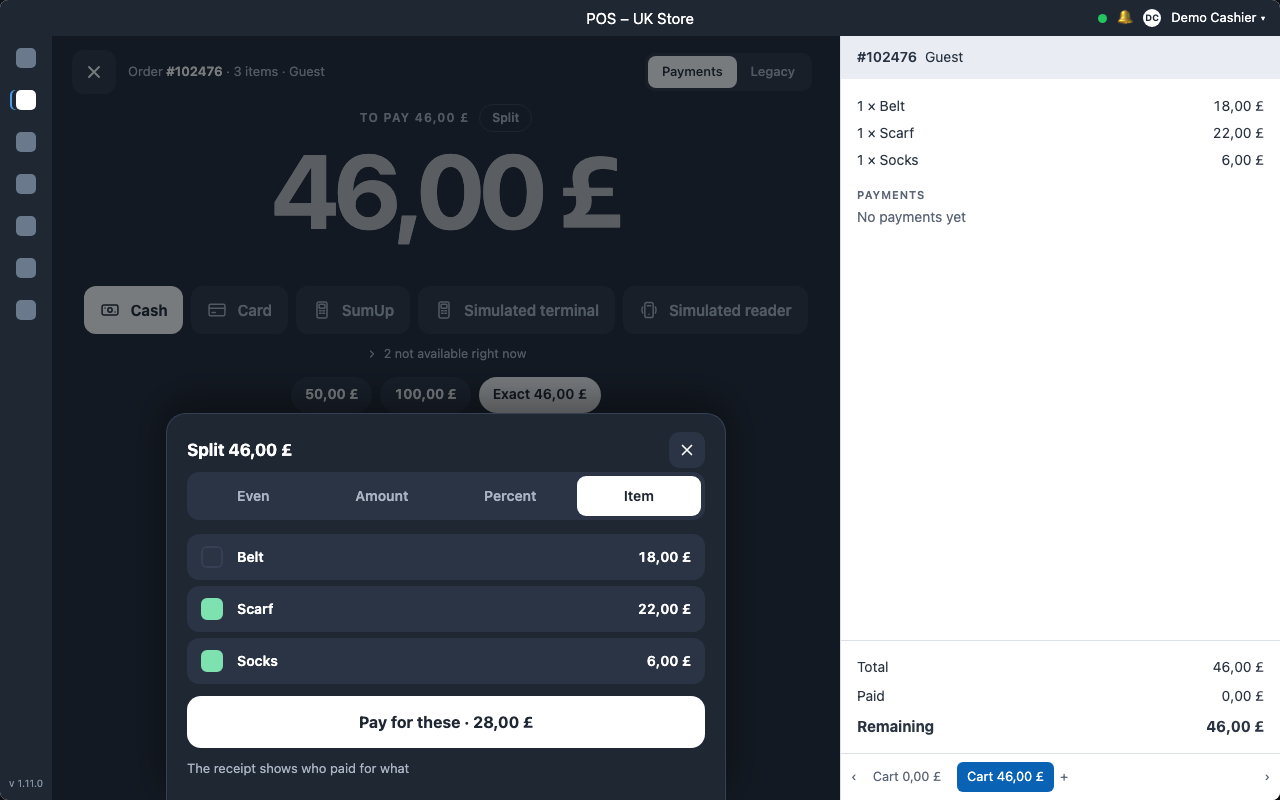
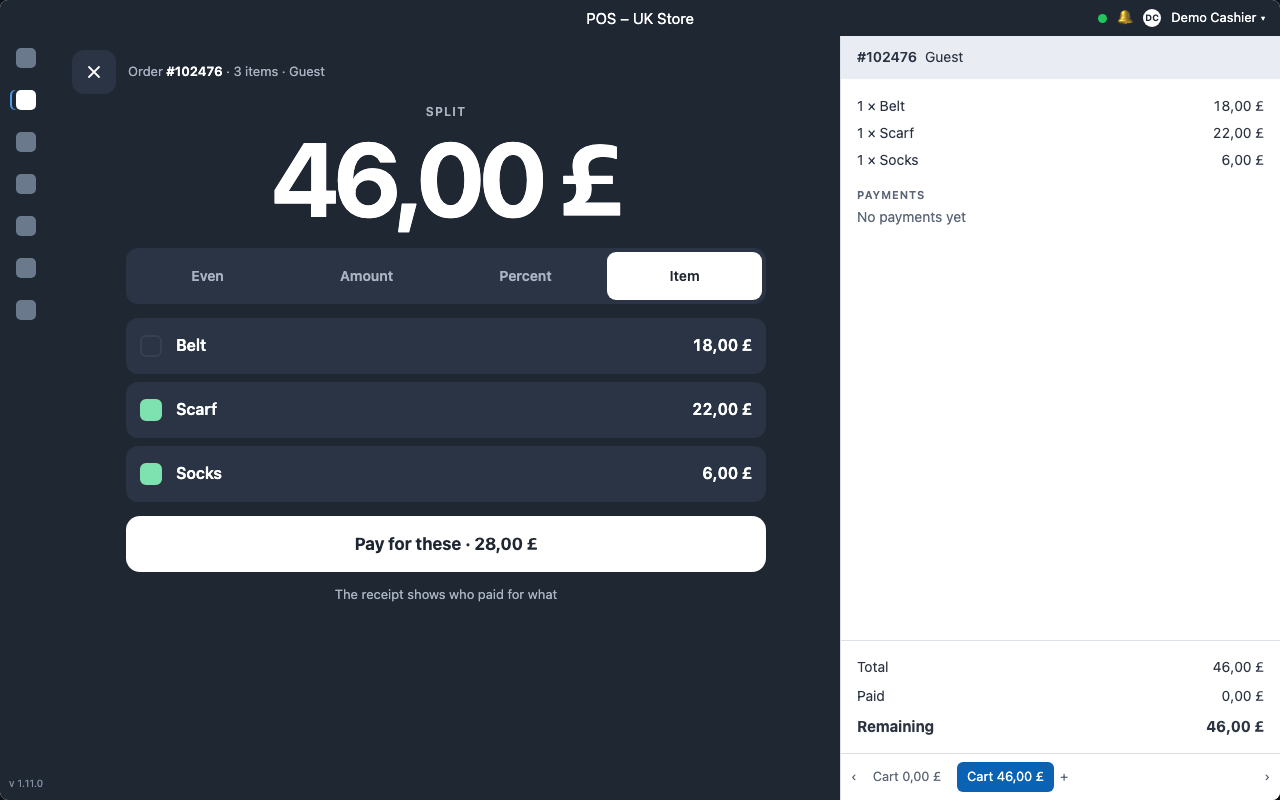
docs: tender pane round 9 — split takes over the pay pane instead of a sheet; amount stays on top, modes beneath

diff --git a/docs/prototypes/2026-09-11-tender-pane-mockups/index.html b/docs/prototypes/2026-09-11-tender-pane-mockups/index.html
@@ -91,29 +91,33 @@
   .sheet .ph .x{width:36px;height:36px;border-radius:10px;background:var(--pay-2);display:inline-flex;align-items:center;justify-content:center;cursor:pointer}
   .sheet .ph .x svg{width:18px;height:18px}
   .sheet .ps{font-size:13px;color:var(--pay-dim);margin-bottom:14px}
+  .splitv{flex:1;display:flex;flex-direction:column;min-height:0}
+  .splitv .body{flex:1;display:flex;flex-direction:column;justify-content:flex-start;max-width:640px;width:100%;margin:18px auto 0;min-height:0}
+  .splitv .foot{text-align:center;font-size:13px;color:var(--pay-dim);margin-top:14px}
+  .splitv .foot a{color:var(--pay-fg);font-weight:600;cursor:pointer;margin-left:10px}
   .stabs{display:flex;gap:4px;background:var(--pay-2);border-radius:12px;padding:4px;margin:0 0 14px}
-  .stabs span{flex:1;height:40px;border-radius:9px;display:inline-flex;align-items:center;justify-content:center;font-weight:600;color:var(--pay-dim);font-size:14px;cursor:pointer}
+  .stabs span{flex:1;height:48px;border-radius:9px;display:inline-flex;align-items:center;justify-content:center;font-weight:600;color:var(--pay-dim);font-size:14px;cursor:pointer}
   .stabs span.on{background:var(--pay-fg);color:var(--pay)}
   .frame.light .stabs{background:#e6eaf1}
-  .items{display:flex;flex-direction:column;gap:6px;max-height:232px;overflow:auto}
-  .it{display:grid;grid-template-columns:24px 1fr auto;gap:12px;align-items:center;height:46px;background:var(--pay-2);border-radius:12px;padding:0 14px;cursor:pointer;user-select:none}
+  .items{display:flex;flex-direction:column;gap:8px;max-height:none;overflow:auto}
+  .it{display:grid;grid-template-columns:24px 1fr auto;gap:12px;align-items:center;height:56px;font-size:16px;background:var(--pay-2);border-radius:12px;padding:0 14px;cursor:pointer;user-select:none}
   .it .cb{width:22px;height:22px;border-radius:6px;border:2px solid var(--pay-3)}
   .it.on .cb{background:var(--pay-accent);border-color:var(--pay-accent)}
   .it .nm{font-weight:600}.it .nm small{color:var(--pay-dim);font-weight:500;margin-left:6px}
   .it .pr{font-variant-numeric:tabular-nums;font-weight:600}
   .it.taken{opacity:.45;cursor:default}.it.taken .cb{background:var(--pay-3);border-color:var(--pay-3)}
-  .sheet .go{margin-top:12px}
-  .sheet .go .btn{width:100%;height:52px;font-size:16px}
-  .sheet .go .btn.disabled{opacity:.45}
+  .go{margin-top:14px}
+  .go .btn{width:100%;height:56px;font-size:17px}
+  .go .btn.disabled{opacity:.45}
   .opts{display:grid;grid-template-columns:repeat(3,1fr);gap:10px}
-  .opt{height:84px;border-radius:14px;background:var(--pay-2);display:flex;flex-direction:column;align-items:center;justify-content:center;gap:4px;cursor:pointer;transition:transform .08s;user-select:none}
+  .opt{height:96px;border-radius:14px;background:var(--pay-2);display:flex;flex-direction:column;align-items:center;justify-content:center;gap:4px;cursor:pointer;transition:transform .08s;user-select:none}
   .opt:active{transform:scale(.97)}
   .opt.on{background:var(--pay-fg);color:var(--pay)}
-  .opt .t{font-size:17px;font-weight:700}
+  .opt .t{font-size:19px;font-weight:700}
   .opt .s{font-size:12.5px;opacity:.8;font-variant-numeric:tabular-nums}
   .opts .opt.wide{grid-column:span 3;height:56px;flex-direction:row;gap:10px}
   .opts.five{grid-template-columns:repeat(5,1fr)}
-  .opts.five .opt{height:72px}
+  .opts.five .opt{height:88px}
   .frame.phone .opts.five{grid-template-columns:repeat(3,1fr)}
   .opts .opt.wide .s{opacity:.7}
   .frame.phone .opts{grid-template-columns:repeat(3,1fr)}
@@ -233,7 +237,7 @@
     <button data-jump="typed">Typed 20</button>
     <button data-jump="card">Card selected</button>
     <button data-jump="sumup">SumUp selected</button>
-    <button data-jump="splitsheet">Split chooser</button>
+    <button data-jump="splitsheet">Split view</button>
     <button data-jump="split">Split 2 ways</button>
     <button data-jump="split3after">3 ways · after leg 1</button>
     <button data-jump="splitpct">Percent tab</button>
@@ -368,25 +372,7 @@ function keypadView(f){
   const commitLabel = !m ? 'Choose how the customer is paying' : ((m.server||m.device) ? `Send ${fmt(applied)} to ${m.title}` : `Take ${fmt(applied)} in ${m.title}`) + tail;
   const planStrip = f.plan ? `<div class="plan">${f.plan.legs.map(l=>`<span class="pleg ${l.k}">${l.k==='done' ? I.check : ''}${l.title ? l.title + ' ' : ''}${fmt(l.v)}</span>`).join('')}<span class="edit" data-split>Change split</span></div>` : '';
   const half = f.remaining/2, third = f.remaining/3, quarter = f.remaining/4;
-  const pctOf = q => Math.round(f.remaining * q) / 100;
-  const pickedSum = Math.round(ITEMS.filter(i => S.pickItems.includes(i.id) && !S.itemsPaid[i.id]).reduce((a,i)=>a+i.price,0)*100)/100;
-  const tabBody = {
-    even: `<div class="opts five">${[2,3,4,5,6].map(n=>`<span class="opt ${S.plan && S.plan.kind==='even' && S.plan.ways===n?'on':''}" data-ways="${n}"><span class="t">${n} ways</span><span class="s">${fmt(f.remaining/n)} each</span></span>`).join('')}</div>`,
-    amount: `<div class="opts">${[5,10,20,50].filter(v=>v<f.remaining).map(v=>`<span class="opt" data-first="${v}"><span class="t">${fmt(v)}</span><span class="s">then ${fmt(f.remaining-v)}</span></span>`).join('')}<span class="opt" data-first="${f.remaining/2}"><span class="t">Half</span><span class="s">${fmt(f.remaining/2)}</span></span><span class="opt wide" data-ways="custom"><span class="t">Type the first payment</span><span class="s">on the keypad, the rest comes after</span></span></div>`,
-    percent: `<div class="opts">${[10,20,25,30,50,75].map(q=>`<span class="opt" data-first="${pctOf(q)}" data-pct="${q}"><span class="t">${q} %</span><span class="s">${fmt(pctOf(q))}</span></span>`).join('')}</div>`,
-    item: `<div class="items">${ITEMS.map(i=>`<div class="it ${S.itemsPaid[i.id]?'taken':''} ${S.pickItems.includes(i.id)&&!S.itemsPaid[i.id]?'on':''}" ${S.itemsPaid[i.id]?'':`data-item="${i.id}"`}><span class="cb"></span><span class="nm">${i.name}${S.itemsPaid[i.id]?`<small>paid · ${S.itemsPaid[i.id]}</small>`:''}</span><span class="pr">${fmt(i.price)}</span></div>`).join('')}</div>
-           <div class="go"><span class="btn white ${pickedSum>0?'':'disabled'}" ${pickedSum>0?'data-items-go':''}>${pickedSum>0 ? `Pay for these · ${fmt(pickedSum)}` : 'Tick the items this payment covers'}</span></div>`,
-  }[S.tab];
-  const tabHint = { even:'Any method for each payment · change the split at any time', amount:'The first payment is this much, the rest is one more payment', percent:'The first payment is this share, the rest is one more payment', item:'The receipt shows who paid for what' }[S.tab];
-  const sheet = S.sheet ? `
-  <div class="sheet" data-sheet-bg>
-    <div class="panel">
-      <div class="ph"><span>Split ${fmt(f.remaining)}</span><span class="x" data-sheet-close>${I.close}</span></div>
-      <div class="stabs">${['even','amount','percent','item'].map(t=>`<span class="${S.tab===t?'on':''}" data-tab="${t}">${t[0].toUpperCase()+t.slice(1)}</span>`).join('')}</div>
-      ${tabBody}
-      <div class="ps" style="margin:12px 0 0">${tabHint}${S.plan ? ` · <a data-ways="0" style="color:var(--pay-fg);font-weight:600;cursor:pointer">No split</a>` : ''}</div>
-    </div>
-  </div>` : '';
+  const sheet = '';
   const canCommit = m && applied > 0 && !(m && !m.change && entry > f.thisPay);
   return `
   <div class="hd">
@@ -407,6 +393,35 @@ function keypadView(f){
   <div class="keys">${['1','2','3','4','5','6','7','8','9'].map(k=>`<span class="k" data-key="${k}">${k}</span>`).join('')}<span class="k sub" data-key="C">C</span><span class="k" data-key="0">0</span><span class="k sub" data-key="⌫">${I.del}</span></div>
   <div class="commit"><span class="btn white ${canCommit?'':'disabled'}" ${canCommit && m ? `data-take="${m.id}"` : ''}>${commitLabel}</span></div>
   ${sheet}`;
+}
+
+function splitView(f){
+  const pctOf = q => Math.round(f.remaining * q) / 100;
+  const pickedSum = Math.round(ITEMS.filter(i => S.pickItems.includes(i.id) && !S.itemsPaid[i.id]).reduce((a,i)=>a+i.price,0)*100)/100;
+  const tabBody = {
+    even: `<div class="opts five">${[2,3,4,5,6].map(n=>`<span class="opt ${S.plan && S.plan.kind==='even' && S.plan.ways===n?'on':''}" data-ways="${n}"><span class="t">${n} ways</span><span class="s">${fmt(f.remaining/n)} each</span></span>`).join('')}</div>`,
+    amount: `<div class="opts">${[5,10,20,50].filter(v=>v<f.remaining).map(v=>`<span class="opt" data-first="${v}"><span class="t">${fmt(v)}</span><span class="s">then ${fmt(f.remaining-v)}</span></span>`).join('')}<span class="opt" data-first="${f.remaining/2}"><span class="t">Half</span><span class="s">${fmt(f.remaining/2)}</span></span><span class="opt wide" data-ways="custom"><span class="t">Type the first payment</span><span class="s">on the keypad, the rest comes after</span></span></div>`,
+    percent: `<div class="opts">${[10,20,25,30,50,75].map(q=>`<span class="opt" data-first="${pctOf(q)}" data-pct="${q}"><span class="t">${q} %</span><span class="s">${fmt(pctOf(q))}</span></span>`).join('')}</div>`,
+    item: `<div class="items">${ITEMS.map(i=>`<div class="it ${S.itemsPaid[i.id]?'taken':''} ${S.pickItems.includes(i.id)&&!S.itemsPaid[i.id]?'on':''}" ${S.itemsPaid[i.id]?'':`data-item="${i.id}"`}><span class="cb"></span><span class="nm">${i.name}${S.itemsPaid[i.id]?`<small>paid · ${S.itemsPaid[i.id]}</small>`:''}</span><span class="pr">${fmt(i.price)}</span></div>`).join('')}</div>
+           <div class="go"><span class="btn white ${pickedSum>0?'':'disabled'}" ${pickedSum>0?'data-items-go':''}>${pickedSum>0 ? `Pay for these · ${fmt(pickedSum)}` : 'Tick the items this payment covers'}</span></div>`,
+  }[S.tab];
+  const tabHint = { even:'Any method for each payment · change the split at any time', amount:'The first payment is this much, the rest is one more payment', percent:'The first payment is this share, the rest is one more payment', item:'The receipt shows who paid for what' }[S.tab];
+  return `
+  <div class="hd">
+    <span class="x" data-sheet-close>${I.close}</span>
+    <span class="title">Order <b>#102476</b> · 3 items · Guest${f.paid>0 ? ` · <b>${fmt(f.paid)}</b> paid` : ''}</span>
+  </div>
+  <div class="amt">
+    <div class="lblrow"><span class="lbl">Split ${f.paid>0 ? 'the remaining' : ''}</span></div>
+    <div class="big">${fmt(f.remaining)}</div>
+  </div>
+  <div class="splitv">
+    <div class="body">
+      <div class="stabs">${['even','amount','percent','item'].map(t=>`<span class="${S.tab===t?'on':''}" data-tab="${t}">${t[0].toUpperCase()+t.slice(1)}</span>`).join('')}</div>
+      ${tabBody}
+      <div class="foot">${tabHint}${S.plan ? `<a data-ways="0">No split</a>` : ''}</div>
+    </div>
+  </div>`;
 }
 
 function terminalView(f){
@@ -454,7 +469,7 @@ function render(){
   document.getElementById('dot').className = 'dot' + (S.offline ? ' off' : '');
   const pay = document.getElementById('pay');
   pay.className = 'pay' + (S.view==='paid' ? ' paid' : '');
-  pay.innerHTML = S.view==='terminal' ? terminalView(f) : S.view==='paid' ? paidView(f) : keypadView(f);
+  pay.innerHTML = S.view==='terminal' ? terminalView(f) : S.view==='paid' ? paidView(f) : S.sheet ? splitView(f) : keypadView(f);
   document.getElementById('ledger').innerHTML = ledger(f);
   document.getElementById('balbar').innerHTML = `<span><b>${f.paid>0?'Remaining':'Total'} ${fmt(f.remaining)}</b><div class="s">${f.paid>0 ? fmt(f.paid)+' paid · ' : ''}3 items · Guest</div></span><span class="q" style="background:var(--muted);color:var(--foreground)">Ledger</span>`;
   document.querySelectorAll('.strip button[data-set]').forEach(b => b.classList.toggle('on', String(S[b.dataset.set]) === b.dataset.val));
@@ -539,7 +554,7 @@ document.getElementById('pay').addEventListener('click', e => {
     S.plan = { kind:'items', first, ids, from:S.legs.length, title: ITEMS.filter(i=>ids.includes(i.id)).map(i=>i.name).join(' + ') };
     S.entry = null; S.sheet = 0; return render();
   }
-  if (t.closest('[data-sheet-close]') || (t.closest('[data-sheet-bg]') && !t.closest('.panel'))){ S.sheet = 0; return render(); }
+  if (t.closest('[data-sheet-close]')){ S.sheet = 0; return render(); }
   if (t.closest('[data-split]')){ S.sheet = 1; return render(); }
   if (t.closest('[data-close]') || t.closest('[data-new]')) return jump('fresh');
   if (t.closest('[data-cancel-terminal]')){ clearTimers(); S.view='keypad'; S.term=null; return render(); }

diff --git a/docs/prototypes/2026-09-11-tender-pane-mockups/README.md b/docs/prototypes/2026-09-11-tender-pane-mockups/README.md
@@ -28,7 +28,7 @@ Keyboard: digits and Backspace type, Enter takes cash, Esc closes.
 - **The amount is the screen.** Balance pre-typed, dimmed until you type; the change line rises as you type; a short amount says what is still to take.
 - **Choose the method, then commit** (round 5, after Paul's notes). The method row under the amount is a selector; the helpers change with it (notes + Exact for cash, Full balance for card, reader line + Change for a terminal); one white button at the bottom names the action. Unavailable gateways sit in a folded *N not available right now* list with reasons. Payments / Legacy is a segmented control at the far right; Split is a chip beside the To pay label.
 - **Card → terminal moment → Paid.** No confirm screen. The Paid moment is full-bleed green, the tick draws, change is the headline for cash, then Print / Email / No receipt · New sale.
-- **Split flow** (round 8: four modes). The Split chip opens a chooser with four tabs. **Even**: 2 to 6 ways with the amount each. **Amount**: 5 / 10 / 20 / 50, Half, or type the first payment on the keypad. **Percent**: 10 / 20 / 25 / 30 / 50 / 75 with the amount shown. **Item**: tick the cart lines this payment covers, *Pay for these · 28,00 £*; after it lands the ledger marks those lines *paid · Card*. *No split* clears a plan. A plan puts a strip under the number: done legs green with their method, the current leg outlined, the rest dim, and *Change split* beside them. The label reads *Payment 2 of 3 · 12,00 £ left*, the commit button reads *Take 6,00 £ in Card · 2 of 3*. Typing less than the planned leg says the difference moves to the next payment; a part payment without a plan says what is left after it. Each leg can use a different method.
+- **Split flow** (round 8: four modes). The Split chip takes over the pay pane (round 9, no sheet): the amount being split stays at the top, four tabs under it. **Even**: 2 to 6 ways with the amount each. **Amount**: 5 / 10 / 20 / 50, Half, or type the first payment on the keypad. **Percent**: 10 / 20 / 25 / 30 / 50 / 75 with the amount shown. **Item**: tick the cart lines this payment covers, *Pay for these · 28,00 £*; after it lands the ledger marks those lines *paid · Card*. *No split* clears a plan. A plan puts a strip under the number: done legs green with their method, the current leg outlined, the rest dim, and *Change split* beside them. The label reads *Payment 2 of 3 · 12,00 £ left*, the commit button reads *Take 6,00 £ in Card · 2 of 3*. Typing less than the planned leg says the difference moves to the next payment; a part payment without a plan says what is left after it. Each leg can use a different method.
 - **Close, not an arrow.**
 
 ## Screens
